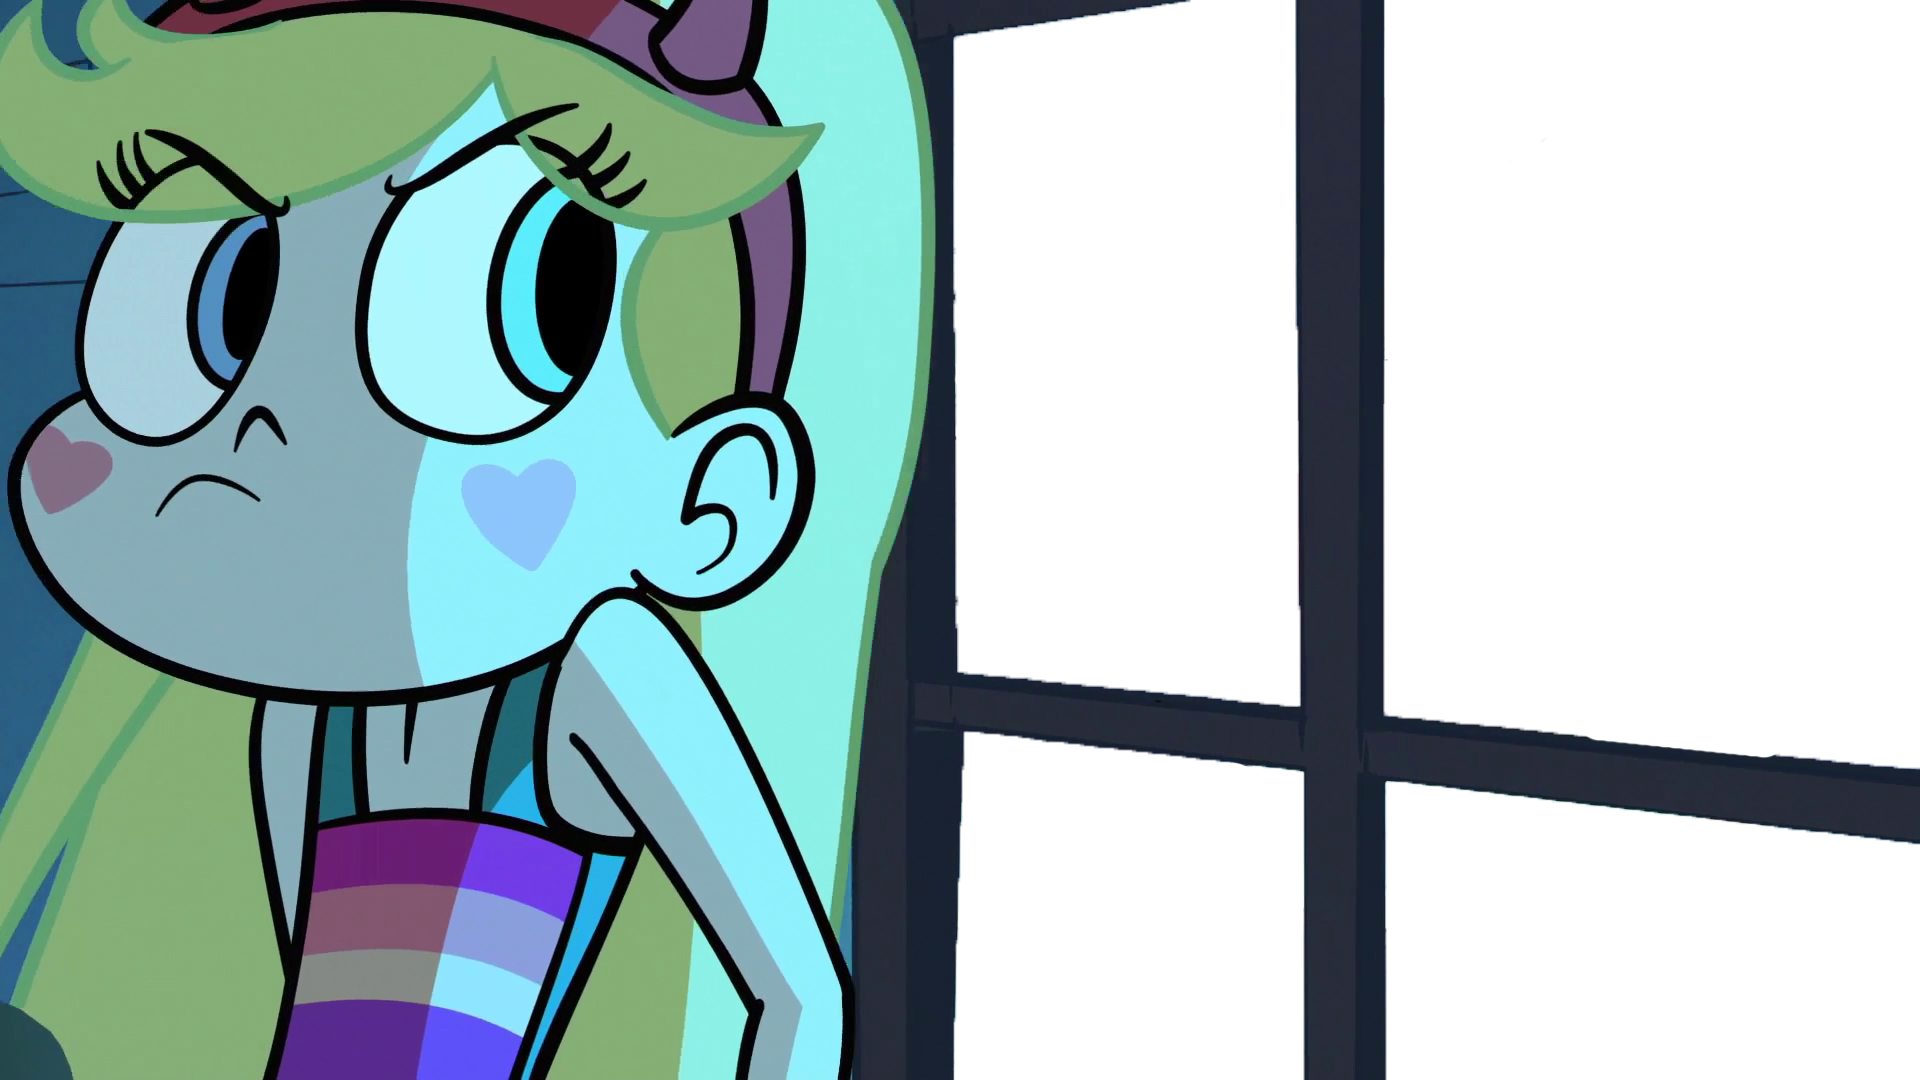
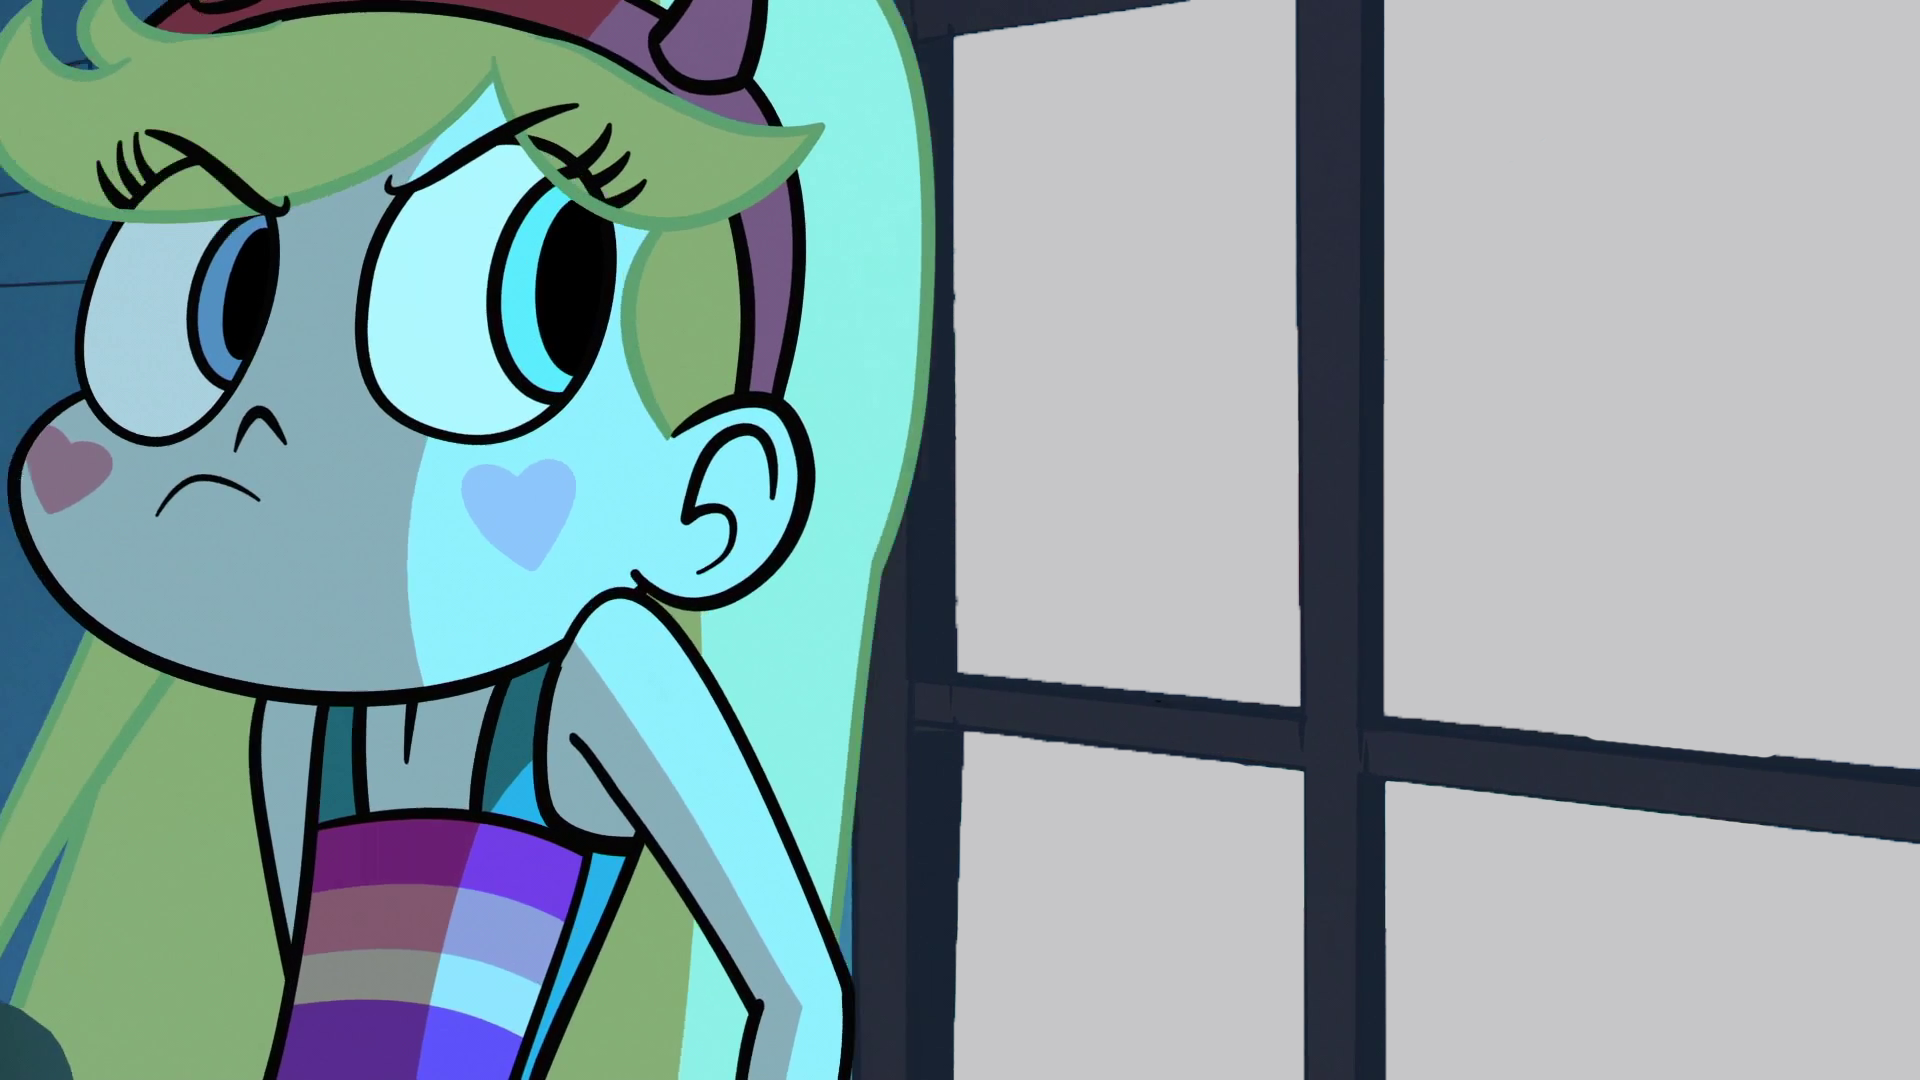
starvstheforcesof hue shifts

diff --git a/worker.js b/worker.js
@@ -14,6 +14,8 @@ const fs = require('fs');
 const Canvas = require('canvas'),
     Image = Canvas.Image;
 
+const colorThief = require('color-thief-jimp');
+
 const logger = {
     cluster: function (msg) {
         process.send({
@@ -424,6 +426,11 @@ const functions = {
     starvstheforcesof: async function (msg) {
         let avatar = await Jimp.read(await getResource(msg.avatar));
         avatar.resize(700, 700);
+        let color = colorThief.getColor(avatar);
+        //color = color.map(a => a / 2);
+        let lowest = Math.min(color[0], color[1], color[2]);
+        color = color.map(a => Math.min(a - lowest, 32));
+        logger.debug(color);
         let bgImg = im(await getBufferFromJimp(avatar));
         bgImg.command('convert');
         bgImg.out('-matte').out('-virtual-pixel').out('transparent');
@@ -432,13 +439,19 @@ const functions = {
         bgImg.out('-distort');
         bgImg.out('Perspective');
         bgImg.out("0,0,0,208  700,0,1468,0  0,700,0,1326  700,700,1468,1656");
-
         let jBgImg = await Jimp.read(await getBufferFromIM(bgImg));
-        let foreground = await Jimp.read(path.join(__dirname, 'img', `starvstheforcesof.png`));
-        let img = new Jimp(1920, 1080);
-        jBgImg.crop(0, 208, 1200, 1080);
-        img.composite(jBgImg, 860, 0);
+        jBgImg.resize(734, 828);
 
+        let foreground = await Jimp.read(path.join(__dirname, 'img', `starvstheforcesof.png`));
+        foreground.resize(960, 540);
+        let actions = [];
+        if (color[0] > 0) actions.push({ apply: 'red', params: [color[0]] });
+        if (color[1] > 0) actions.push({ apply: 'green', params: [color[1]] });
+        if (color[2] > 0) actions.push({ apply: 'blue', params: [color[2]] });
+        foreground.color(actions);
+        let img = new Jimp(960, 540);
+        jBgImg.crop(0, 104, 600, 540);
+        img.composite(jBgImg, 430, 0);
         img.composite(foreground, 0, 0);
 
         img.getBuffer(Jimp.MIME_PNG, (err, buffer) => {
